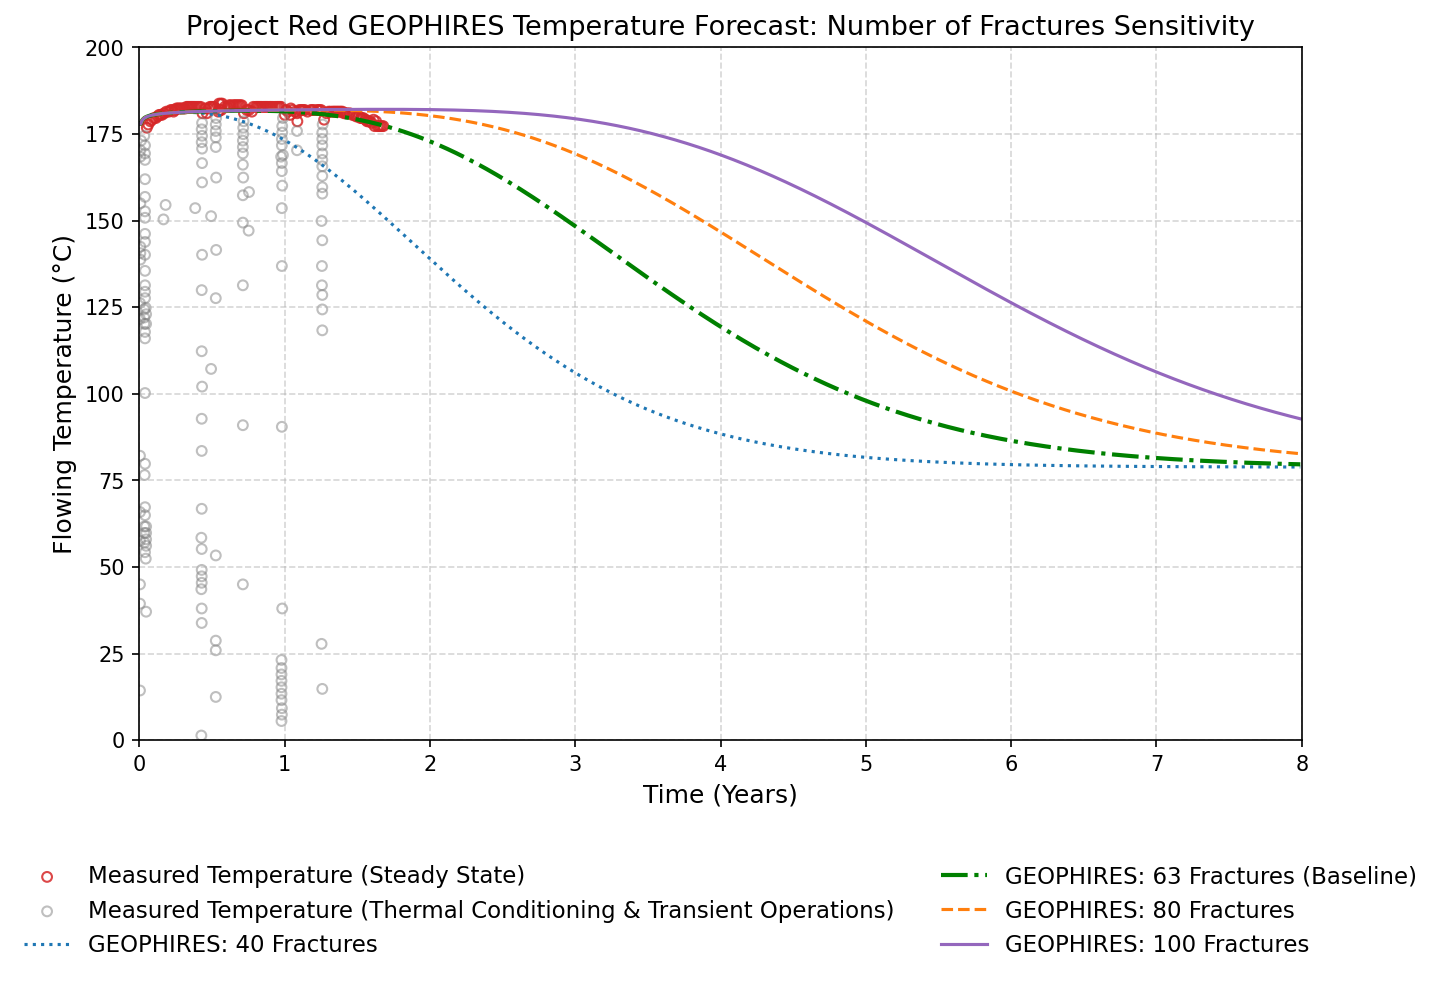
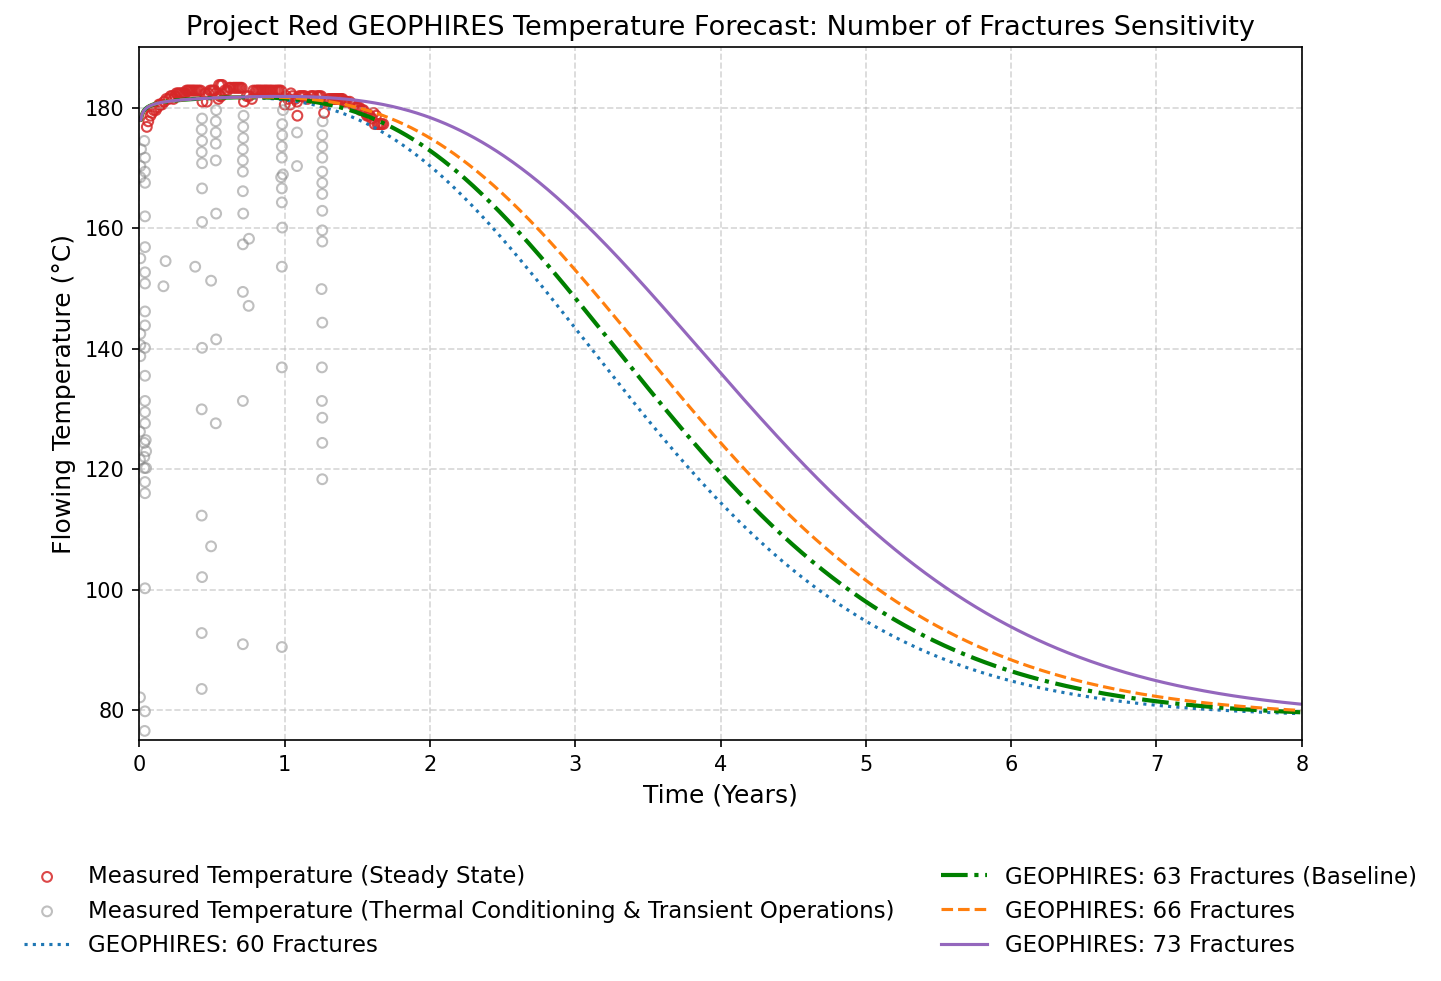
improve fracture counts range

diff --git a/src/geophires_docs/generate_fervo_project_red_2026_docs.py b/src/geophires_docs/generate_fervo_project_red_2026_docs.py
@@ -537,11 +537,16 @@ def _generate_fracture_sensitivity_graph(
     base_input_params: GeophiresInputParameters = get_project_red_input_params_and_result()[0]
     base_number_of_fractures = int(_get_input_parameters_dict(base_input_params)[number_of_fractures_param_name])
 
-    fracture_counts = [40, base_number_of_fractures, 80, 100]
+    fracture_counts = [60, base_number_of_fractures, 66, 73]
     client = GeophiresXClient()
 
-    colors = {40: '#1f77b4', 63: 'green', 80: '#ff7f0e', 100: '#9467bd'}
-    line_styles = {40: ':', 63: '-.', 80: '--', 100: '-'}
+    colors = {
+        fracture_counts[0]: '#1f77b4',
+        base_number_of_fractures: 'green',
+        fracture_counts[2]: '#ff7f0e',
+        fracture_counts[3]: '#9467bd',
+    }
+    line_styles = {fracture_counts[0]: ':', fracture_counts[1]: '-.', fracture_counts[2]: '--', fracture_counts[3]: '-'}
 
     for frac_count in fracture_counts:
         input_params: GeophiresInputParameters = ImmutableGeophiresInputParameters(
@@ -576,8 +581,8 @@ def _generate_fracture_sensitivity_graph(
     ax.set_ylabel('Flowing Temperature (°C)', fontsize=12)
     ax.set_title('Project Red GEOPHIRES Temperature Forecast: Number of Fractures Sensitivity', fontsize=13)
 
-    ax.set_xlim(0.0, 8.0)
-    ax.set_ylim(0.0, 200.0)
+    ax.set_xlim(0.0, _LONG_TERM_FORECAST_PLANT_LIFETIME_YEARS)
+    ax.set_ylim(75, 190)
     ax.grid(True, linestyle='--', alpha=0.5)
 
     ax.legend(loc='upper center', bbox_to_anchor=(0.5, -0.15), ncol=2, frameon=False, fontsize=11)
